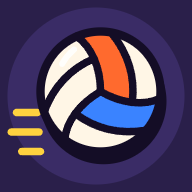
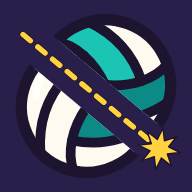
Logotipo nuevo «Make the Cut»: el remate en diagonal parte el rótulo; icono con el balón cortado; balón de las vallas en teal
- index.html: SVG #mtcLogo definido una vez (letras de Barlow Condensed Black Italic pasadas a trazados) y usado con <use> en el
  menú y en el telón; 4,3 em de ancho, escala con el font-size de .logo. Fuera el logotipo en texto (text-shadow, arco y brillo).
- pages/: icon.svg nuevo (balón partido en diagonal, colores del balón del partido) y PNG 180/192/512 regenerados.
- arena.js: el balón de las vallas (drawGameBall) en teal y teal oscuro, como el del partido.

diff --git a/index.html b/index.html
@@ -3,8 +3,8 @@
 /* UI-07: el logotipo no depende de la red. Dos recortes mínimos de Barlow Condensed (SIL Open Font License 1.1, The Barlow
    Project Authors, github.com/jpt/barlow) con SOLO las letras del telón: Black Italic «VOLEY3D» (1,1 KB) y Bold «PALU DEMR»
    (1,1 KB), registrados aquí antes del primer pintado con el nombre propio «VB Marca» (no se mezclan con el resto de textos si
-   Google Fonts falla). Los usan .logo (telón y menú) y el rótulo del telón: el primer frame ya sale con la fuente buena y el
-   logotipo del telón y el del menú son idénticos, con o sin Google Fonts. */
+   Google Fonts falla). Lo usa el rótulo del telón (el logotipo es SVG, #mtcLogo, desde nov-2026): el primer frame ya sale con la
+   fuente buena, con o sin Google Fonts. */
 (function () {
   try {
     if (!window.FontFace || !document.fonts || !window.atob) return;
@@ -83,8 +83,8 @@ kbd,.key{display:inline-flex;align-items:center;justify-content:center;min-width
 .key.tch.s{background:linear-gradient(180deg,#0f8a65,#0b6e50);text-shadow:0 1px 1px rgba(0,60,40,.5)}
 
 /* ---------- Telón de carga ---------- */
-/* UI-07: el telón usa EXACTAMENTE el logotipo del menú (.logo), con la fuente embebida «VB Marca» (script al principio): se ve
-   entero desde el PRIMER frame, sin esperar a la red y sin fuente de reserva. Con la escena lista (tope de 2,6 s desde la
+/* UI-07: el telón usa EXACTAMENTE el logotipo del menú (.logo: el SVG #mtcLogo, sin fuentes): se ve entero desde el PRIMER
+   frame, sin esperar a la red. Con la escena lista (tope de 2,6 s desde la
    navegación), el logotipo vuela (FLIP, solo transform) hasta su sitio en el menú mientras el fondo del telón se funde; al
    aterrizar, el del menú lo releva en el mismo frame. */
 #boot{position:absolute;inset:0;z-index:40;transition:opacity .6s var(--ease),visibility .6s}
@@ -617,7 +617,7 @@ kbd,.key{display:inline-flex;align-items:center;justify-content:center;min-width
 #menu.intro .logo,#menu.lgwait .logo{visibility:hidden}
 /* el logotipo que vuela no se repinta (el arco punteado y el brillo animan con pintado, no con el compositor): queda fijo y
    el del menú arranca sus animaciones desde ese mismo estado al relevarlo, sin salto */
-#boot .lg-arc path,#boot .lg-voley::after,#menu.intro .lg-arc path,#menu.intro .lg-voley::after,#menu.lgwait .lg-arc path,#menu.lgwait .lg-voley::after{animation:none}
+#boot .lg .trail,#menu.intro .lg .trail,#menu.lgwait .lg .trail{animation:none}
 #menu.intro .menu-col>*{animation:none}
 #menu.intro .kicker,#menu.intro .tagline,#menu.intro .mi,#menu.intro .menu-foot,#menu.intro .live{opacity:0}
 #menu.enter .menu-col>*,#menu.enter .brand{animation:none}
@@ -633,16 +633,10 @@ kbd,.key{display:inline-flex;align-items:center;justify-content:center;min-width
 .kicker::before{content:"";width:28px;height:2px;background:var(--t0)}
 .logo{position:relative;margin:0;width:max-content;font-family:"VB Marca",var(--display);font-weight:900;font-style:italic;line-height:.8;letter-spacing:-.01em;display:flex;align-items:flex-end;gap:12px;
   font-size:clamp(50px,6.4vw,92px)}
-.lg-voley{position:relative;color:#fff8ee;
-  text-shadow:1px 1px 0 #ff6a2e,2px 2px 0 #f2552b,3px 3px 0 #dd4320,4px 4px 0 #c43518,5px 5px 0 #a82b14,6px 6px 0 #8a2310,8px 10px 22px rgba(0,0,0,.55)}
-.lg-voley::after{content:"MAKE THE\A CUT";white-space:pre;position:absolute;left:0;top:0;color:transparent;pointer-events:none;
-  background:linear-gradient(100deg,transparent 35%,rgba(255,255,255,.75) 50%,transparent 65%);background-size:260% 100%;
-  text-shadow:none;-webkit-background-clip:text;background-clip:text;animation:sheen 5.5s ease-in-out 1s infinite}
-@keyframes sheen{0%,60%{background-position:120% 0}100%{background-position:-120% 0}}
-.lg-3d{position:relative;display:inline-block;font-size:.5em;line-height:1;padding:.08em .18em .06em .12em;margin-bottom:.06em;color:#140a04;
-  background:linear-gradient(135deg,#ffb238,#ff5a2c);transform:skewX(-10deg);border-radius:.08em;box-shadow:0 10px 28px rgba(255,90,40,.45),inset 0 -4px 0 rgba(0,0,0,.18)}
-.lg-arc{position:absolute;left:-4%;top:-12%;width:112%;height:56%;pointer-events:none;overflow:visible}
-.lg-arc path{fill:none;stroke:rgba(255,210,63,.75);stroke-width:2.2;stroke-dasharray:3 7;stroke-linecap:round;animation:dash 2.6s linear infinite}
+/* logotipo SVG (#mtcLogo, definido antes del telón): 4.3 em de ancho, así que escala con el font-size de .logo en todas las
+   medias queries; la trayectoria del balón lleva el guion animado que antes tenía el arco */
+.logo .lg{display:block;width:4.3em;height:auto;overflow:visible;filter:drop-shadow(8px 10px 16px rgba(0,0,0,.45))}
+.lg .trail{animation:dash 2.6s linear infinite}
 @keyframes dash{to{stroke-dashoffset:-60}}
 .tagline{margin:14px 0 0;color:var(--fg2);font-size:clamp(15px,1.5vw,18px);line-height:1.45;max-width:30em}
 .tagline b{color:#fff;font-weight:600}
@@ -1247,8 +1241,6 @@ kbd,.key{background:#fff7e8;color:var(--tk);border:1.5px solid var(--tk);border-
 #veil .vp.t1{--pc:var(--k1rgb,64,146,255)}
 
 /* ---- logotipo: letras de cómic con contorno de tinta y relieve naranja ---- */
-.lg-voley{text-shadow:var(--ring3),5px 5px 0 #ff6a2e,6px 6px 0 #ff6a2e,7px 7px 0 #e4521f,8px 8px 0 var(--tk),9px 10px 0 var(--tk)}
-.lg-arc path{stroke:#ffd23f;stroke-width:2.8}
 
 /* ---- menú ---- */
 #menu{background:linear-gradient(90deg,rgba(29,21,48,.9) 0%,rgba(29,21,48,.72) 30%,rgba(29,21,48,.2) 58%,rgba(29,21,48,0) 75%),linear-gradient(0deg,rgba(29,21,48,.62) 0%,rgba(29,21,48,0) 30%)}
@@ -1912,8 +1904,7 @@ kbd.ms{height:auto;padding:2px 6px 1px}
       <div class="brand">
         <p class="kicker">Palau del Mar<span class="sep sep-d"><span class="sr">, </span></span>2 contra 2</p>
         <h1 class="logo" aria-label="Make the Cut">
-          <svg class="lg-arc" viewBox="0 0 400 100" preserveAspectRatio="none" aria-hidden="true"><path d="M8 96 Q 190 -40 392 70"/></svg>
-          <span class="lg-voley">MAKE THE<br>CUT</span>
+          <svg class="lg" viewBox="0 0 780 440" aria-hidden="true" focusable="false"><use href="#mtcLogo"/></svg>
         </h1>
         <p class="tagline">Vóley en pista cubierta, con la cámara detrás de tu jugador: <b>tú y tu pareja contra la CPU</b>.</p>
       </div>
@@ -2084,10 +2075,13 @@ kbd.ms{height:auto;padding:2px 6px 1px}
   </div>
 
   <div id="rotate" hidden><div class="ph"></div><b>Gira el móvil</b><p>Make the Cut se juega en horizontal</p></div>
+  <!-- Logotipo «Make the Cut» (nov-2026): el remate en diagonal (un cut) parte el rótulo en dos. Definido una vez aquí y usado
+       con <use href="#mtcLogo"> en el menú y en el telón. Letras de Barlow Condensed Black Italic pasadas a trazados (OFL);
+       balón con los colores del balón del partido. Fuente: carpetas/logo-make-the-cut/gen.py + symbol.py (fuera del repo). -->
+  <svg width="0" height="0" style="position:absolute" aria-hidden="true" focusable="false"><defs><g id="mtcT" stroke-linejoin="round" paint-order="stroke"><path d="M49.056000000000004 -78.4H65.968Q66.752 -78.4 67.144 -77.952Q67.536 -77.504 67.424 -76.72L58.24 -1.68Q58.128 -0.896 57.624 -0.448Q57.120000000000005 0.0 56.336 0.0H39.2Q38.416000000000004 0.0 38.024 -0.448Q37.632 -0.896 37.744 -1.68L43.456 -47.488Q43.456 -47.936 43.232 -47.992000000000004Q43.008 -48.048 42.784 -47.712L35.168 -36.736000000000004L33.824 -34.72H33.712L28.0 -47.712Q27.888 -48.048 27.664 -47.992000000000004Q27.44 -47.936 27.328 -47.488L21.728 -1.68Q21.616 -0.896 21.112000000000002 -0.448Q20.608 0.0 19.936 0.0H2.688Q2.016 0.0 1.624 -0.448Q1.232 -0.896 1.344 -1.68L10.528 -76.72Q10.64 -77.504 11.088000000000001 -77.952Q11.536 -78.4 12.32 -78.4H29.344Q30.688000000000002 -78.4 31.136 -77.168L37.072 -62.608000000000004Q37.296 -62.048 37.632 -62.608000000000004L46.928000000000004 -77.168Q47.712 -78.4 49.056000000000004 -78.4ZM94.08000000000001 -1.568 93.968 -10.08Q93.968 -10.64 93.296 -10.64H83.552Q82.88000000000001 -10.64 82.88000000000001 -10.08L80.75200000000001 -1.568Q80.304 0.0 78.736 0.0H61.712Q59.92000000000001 0.0 60.592000000000006 -1.792L85.232 -76.944Q85.68 -78.4 87.248 -78.4H106.96000000000001Q108.528 -78.4 108.64000000000001 -76.944L114.912 -1.792Q114.912 0.0 113.12 0.0H95.648Q94.08000000000001 0.0 94.08000000000001 -1.568ZM87.696 -26.768H93.072Q93.52000000000001 -26.768 93.52000000000001 -27.328L93.184 -48.048Q93.072 -48.496 92.792 -48.44Q92.512 -48.384 92.512 -48.048L87.36000000000001 -27.328Q87.36000000000001 -26.768 87.696 -26.768ZM128.24 -78.4H145.376Q146.16000000000003 -78.4 146.55200000000002 -77.952Q146.94400000000002 -77.504 146.83200000000002 -76.72L144.032 -54.208Q144.032 -53.76 144.25600000000003 -53.76Q144.48000000000002 -53.76 144.704 -54.096000000000004L156.8 -77.056Q157.472 -78.4 158.92800000000003 -78.4H176.848Q178.192 -78.4 178.192 -77.392Q178.192 -76.944 177.85600000000002 -76.384L158.48000000000002 -43.232Q158.36800000000002 -43.12 158.312 -42.952Q158.25600000000003 -42.784 158.25600000000003 -42.56L169.12 -1.9040000000000001Q169.23200000000003 -1.68 169.23200000000003 -1.344Q169.23200000000003 0.0 167.66400000000002 0.0H149.632Q148.17600000000002 0.0 147.84000000000003 -1.344L142.12800000000001 -24.416Q142.12800000000001 -24.752 141.904 -24.808Q141.68 -24.864 141.568 -24.416L140.22400000000002 -21.952L140.00000000000003 -21.28L137.64800000000002 -1.68Q137.536 -0.896 137.032 -0.448Q136.52800000000002 0.0 135.85600000000002 0.0H118.60800000000002Q117.93600000000002 0.0 117.54400000000001 -0.448Q117.15200000000002 -0.896 117.26400000000001 -1.68L126.44800000000002 -76.72Q126.56000000000002 -77.504 127.00800000000001 -77.952Q127.45600000000002 -78.4 128.24 -78.4ZM219.63200000000003 -60.368H198.8Q198.24 -60.368 198.24 -59.808L196.89600000000002 -48.832Q196.67200000000003 -48.272 197.34400000000002 -48.272H208.20800000000003Q208.99200000000002 -48.272 209.38400000000001 -47.824Q209.776 -47.376 209.66400000000002 -46.592L207.76000000000002 -31.92Q207.64800000000002 -31.136 207.20000000000002 -30.688000000000002Q206.752 -30.240000000000002 205.96800000000002 -30.240000000000002H195.104Q194.544 -30.240000000000002 194.544 -29.68L193.08800000000002 -18.592Q193.08800000000002 -18.032 193.64800000000002 -18.032H214.48000000000002Q215.264 -18.032 215.656 -17.584Q216.04800000000003 -17.136 215.93600000000004 -16.352L214.14400000000003 -1.68Q213.80800000000002 0.0 212.24 0.0H172.032Q171.36 0.0 170.96800000000002 -0.448Q170.57600000000002 -0.896 170.68800000000002 -1.68L179.872 -76.72Q179.98400000000004 -77.504 180.43200000000002 -77.952Q180.88000000000002 -78.4 181.66400000000002 -78.4H221.872Q222.656 -78.4 223.048 -77.952Q223.44000000000003 -77.504 223.32800000000003 -76.72L221.53600000000003 -62.048Q221.42400000000004 -61.264 220.92000000000002 -60.816Q220.41600000000003 -60.368 219.63200000000003 -60.368ZM295.56800000000004 -76.72 293.66400000000004 -62.048Q293.552 -61.264 293.10400000000004 -60.816Q292.65600000000006 -60.368 291.87200000000007 -60.368H278.992Q278.54400000000004 -60.368 278.32000000000005 -59.808L271.15200000000004 -1.68Q271.04 -0.896 270.59200000000004 -0.448Q270.14400000000006 0.0 269.36 0.0H252.22400000000005Q251.44000000000005 0.0 251.04800000000006 -0.448Q250.65600000000003 -0.896 250.76800000000003 -1.68L257.93600000000004 -59.808Q257.93600000000004 -60.368 257.48800000000006 -60.368H244.83200000000005Q244.04800000000003 -60.368 243.65600000000003 -60.816Q243.26400000000004 -61.264 243.37600000000003 -62.048L245.16800000000003 -76.72Q245.50400000000005 -78.4 247.07200000000003 -78.4H294.112Q294.8960000000001 -78.4 295.28800000000007 -77.952Q295.68000000000006 -77.504 295.56800000000004 -76.72ZM327.15200000000004 -78.4H344.288Q345.072 -78.4 345.464 -77.952Q345.856 -77.504 345.744 -76.72L336.56 -1.68Q336.22400000000005 0.0 334.656 0.0H317.52000000000004Q316.73600000000005 0.0 316.34400000000005 -0.448Q315.952 -0.896 316.064 -1.68L319.536 -29.68Q319.536 -30.240000000000002 319.088 -30.240000000000002H313.824Q313.264 -30.240000000000002 313.264 -29.68L309.79200000000003 -1.68Q309.68 -0.896 309.17600000000004 -0.448Q308.672 0.0 308.0 0.0H290.752Q290.08000000000004 0.0 289.68800000000005 -0.448Q289.29600000000005 -0.896 289.408 -1.68L298.59200000000004 -76.72Q298.704 -77.504 299.15200000000004 -77.952Q299.6 -78.4 300.384 -78.4H317.52000000000004Q318.30400000000003 -78.4 318.696 -77.952Q319.088 -77.504 318.976 -76.72L315.61600000000004 -48.832Q315.392 -48.272 316.064 -48.272H321.216Q321.66400000000004 -48.272 321.88800000000003 -48.832L325.24800000000005 -76.72Q325.584 -78.4 327.15200000000004 -78.4ZM390.88000000000005 -60.368H370.04800000000006Q369.48800000000006 -60.368 369.48800000000006 -59.808L368.14400000000006 -48.832Q367.92 -48.272 368.59200000000004 -48.272H379.456Q380.24000000000007 -48.272 380.63200000000006 -47.824Q381.02400000000006 -47.376 380.91200000000003 -46.592L379.00800000000004 -31.92Q378.8960000000001 -31.136 378.4480000000001 -30.688000000000002Q378.00000000000006 -30.240000000000002 377.21600000000007 -30.240000000000002H366.35200000000003Q365.79200000000003 -30.240000000000002 365.79200000000003 -29.68L364.336 -18.592Q364.336 -18.032 364.8960000000001 -18.032H385.72800000000007Q386.51200000000006 -18.032 386.90400000000005 -17.584Q387.29600000000005 -17.136 387.184 -16.352L385.39200000000005 -1.68Q385.05600000000004 0.0 383.48800000000006 0.0H343.28000000000003Q342.60800000000006 0.0 342.21600000000007 -0.448Q341.82400000000007 -0.896 341.93600000000004 -1.68L351.12000000000006 -76.72Q351.232 -77.504 351.68000000000006 -77.952Q352.12800000000004 -78.4 352.91200000000003 -78.4H393.12000000000006Q393.90400000000005 -78.4 394.29600000000005 -77.952Q394.68800000000005 -77.504 394.576 -76.72L392.78400000000005 -62.048Q392.672 -61.264 392.168 -60.816Q391.66400000000004 -60.368 390.88000000000005 -60.368Z" transform="translate(182.1 150)" stroke-width="5"/><path d="M5.428 -40.355999999999995Q5.428 -42.716 5.8999999999999995 -48.379999999999995L14.395999999999999 -117.29199999999999Q17.227999999999998 -140.184 32.568 -153.636Q47.907999999999994 -167.088 70.564 -167.088Q91.09599999999999 -167.088 103.13199999999999 -155.878Q115.16799999999999 -144.668 115.16799999999999 -125.08Q115.16799999999999 -122.95599999999999 114.696 -117.29199999999999L114.46 -116.112Q114.22399999999999 -114.46 113.16199999999999 -113.398Q112.1 -112.336 110.684 -112.336L74.33999999999999 -111.15599999999999Q70.8 -111.15599999999999 71.27199999999999 -114.46L71.97999999999999 -120.36Q72.452 -124.372 70.8 -126.732Q69.148 -129.09199999999998 66.08 -129.09199999999998Q62.775999999999996 -129.09199999999998 60.53399999999999 -126.732Q58.291999999999994 -124.372 57.82 -120.36L48.616 -44.604Q48.144 -40.827999999999996 49.678 -38.467999999999996Q51.211999999999996 -36.108 54.516 -36.108Q57.82 -36.108 60.062 -38.349999999999994Q62.303999999999995 -40.592 62.775999999999996 -44.604L63.483999999999995 -50.976Q63.72 -52.628 64.782 -53.45399999999999Q65.844 -54.279999999999994 67.25999999999999 -54.279999999999994L103.368 -53.099999999999994Q105.02 -53.099999999999994 105.846 -52.038Q106.672 -50.976 106.43599999999999 -49.324L106.19999999999999 -48.379999999999995Q103.368 -25.488 87.91 -11.8Q72.452 1.888 49.796 1.888Q29.264 1.888 17.346 -9.440000000000001Q5.428 -20.768 5.428 -40.355999999999995ZM108.324 -40.827999999999996Q108.324 -43.424 108.79599999999999 -49.087999999999994L122.72 -161.66Q122.956 -163.31199999999998 124.018 -164.25599999999997Q125.08 -165.2 126.496 -165.2H162.84Q164.256 -165.2 165.082 -164.25599999999997Q165.90800000000002 -163.31199999999998 165.672 -161.66L151.276 -44.839999999999996Q150.804 -40.827999999999996 152.33800000000002 -38.467999999999996Q153.872 -36.108 156.94 -36.108Q160.00799999999998 -36.108 162.01399999999998 -38.467999999999996Q164.01999999999998 -40.827999999999996 164.492 -44.839999999999996L178.88799999999998 -161.66Q179.124 -163.31199999999998 180.06799999999998 -164.25599999999997Q181.012 -165.2 182.664 -165.2H218.772Q220.42399999999998 -165.2 221.25 -164.25599999999997Q222.076 -163.31199999999998 221.83999999999997 -161.66L207.916 -49.087999999999994Q206.028 -33.983999999999995 198.476 -22.419999999999998Q190.92399999999998 -10.856 178.88799999999998 -4.484Q166.85199999999998 1.888 152.22 1.888Q131.924 1.888 120.124 -9.675999999999998Q108.324 -21.24 108.324 -40.827999999999996ZM331.108 -161.66 327.096 -130.744Q326.86 -129.09199999999998 325.916 -128.148Q324.972 -127.204 323.32 -127.204H296.18Q295.236 -127.204 294.764 -126.02399999999999L279.65999999999997 -3.54Q279.424 -1.888 278.48 -0.944Q277.536 0.0 275.884 0.0H239.776Q238.124 0.0 237.298 -0.944Q236.47199999999998 -1.888 236.708 -3.54L251.812 -126.02399999999999Q251.812 -127.204 250.868 -127.204H224.2Q222.548 -127.204 221.72199999999998 -128.148Q220.896 -129.09199999999998 221.132 -130.744L224.908 -161.66Q225.61599999999999 -165.2 228.92 -165.2H328.03999999999996Q329.692 -165.2 330.51800000000003 -164.25599999999997Q331.344 -163.31199999999998 331.108 -161.66Z" transform="translate(182.1 401.5) scale(1.2391)" stroke-width="4.04"/></g><clipPath id="mtc-cA"><polygon points="-1891.1,-2238.6 2645.0,2683.5 438.9,4716.6 -4097.2,-205.6"/></clipPath><clipPath id="mtc-cB"><polygon points="-1875.0,-2253.5 2661.1,2668.6 4867.2,635.6 331.1,-4286.6"/></clipPath></defs><g id="mtcLogo"><g clip-path="url(#mtc-cA)" transform="translate(-13.2 12.2)"><use href="#mtcT" transform="translate(12.0 12.0)" fill="#1d1530" stroke="#1d1530"/><use href="#mtcT" transform="translate(10.0 10.0)" fill="#1d1530" stroke="#1d1530"/><use href="#mtcT" transform="translate(8.0 8.0)" fill="#1d1530" stroke="#1d1530"/><use href="#mtcT" transform="translate(6.0 6.0)" fill="#1d1530" stroke="#1d1530"/><use href="#mtcT" transform="translate(4.0 4.0)" fill="#1d1530" stroke="#1d1530"/><use href="#mtcT" transform="translate(2.0 2.0)" fill="#1d1530" stroke="#1d1530"/><use href="#mtcT" transform="translate(12.0 12.0)" fill="#8a2310" stroke="none"/><use href="#mtcT" transform="translate(10.0 10.0)" fill="#a82b14" stroke="none"/><use href="#mtcT" transform="translate(8.0 8.0)" fill="#c43518" stroke="none"/><use href="#mtcT" transform="translate(6.0 6.0)" fill="#dd4320" stroke="none"/><use href="#mtcT" transform="translate(4.0 4.0)" fill="#f2552b" stroke="none"/><use href="#mtcT" transform="translate(2.0 2.0)" fill="#ff6a2e" stroke="none"/><use href="#mtcT" fill="#fff8ee" stroke="#1d1530"/></g><g clip-path="url(#mtc-cB)" transform="translate(13.2 -12.2)"><use href="#mtcT" transform="translate(12.0 12.0)" fill="#1d1530" stroke="#1d1530"/><use href="#mtcT" transform="translate(10.0 10.0)" fill="#1d1530" stroke="#1d1530"/><use href="#mtcT" transform="translate(8.0 8.0)" fill="#1d1530" stroke="#1d1530"/><use href="#mtcT" transform="translate(6.0 6.0)" fill="#1d1530" stroke="#1d1530"/><use href="#mtcT" transform="translate(4.0 4.0)" fill="#1d1530" stroke="#1d1530"/><use href="#mtcT" transform="translate(2.0 2.0)" fill="#1d1530" stroke="#1d1530"/><use href="#mtcT" transform="translate(12.0 12.0)" fill="#8a2310" stroke="none"/><use href="#mtcT" transform="translate(10.0 10.0)" fill="#a82b14" stroke="none"/><use href="#mtcT" transform="translate(8.0 8.0)" fill="#c43518" stroke="none"/><use href="#mtcT" transform="translate(6.0 6.0)" fill="#dd4320" stroke="none"/><use href="#mtcT" transform="translate(4.0 4.0)" fill="#f2552b" stroke="none"/><use href="#mtcT" transform="translate(2.0 2.0)" fill="#ff6a2e" stroke="none"/><use href="#mtcT" fill="#fff8ee" stroke="#1d1530"/></g><line x1="210" y1="25" x2="500" y2="340" stroke="#1d1530" stroke-width="9" stroke-linecap="round" stroke-dasharray="10 12"/><line x1="210" y1="25" x2="500" y2="340" class="trail" stroke="#ffd23f" stroke-width="5" stroke-linecap="round" stroke-dasharray="10 12"/><g stroke="#1d1530" stroke-width="4" stroke-linecap="round" opacity=".9"><path d="M180 -10 l22 24M155 18 l18 20"/></g><polygon points="610.6,406.9 573.0,409.8 583.8,446.0 555.1,421.4 537.1,454.6 534.2,417.0 498.0,427.8 522.6,399.1 489.4,381.1 527.0,378.2 516.2,342.0 544.9,366.6 562.9,333.4 565.8,371.0 602.0,360.2 577.4,388.9" fill="#ffd23f" stroke="#1d1530" stroke-width="4" stroke-linejoin="round"/><g transform="translate(550 394) rotate(-20) scale(3.8000) translate(-12 -12)" stroke-linejoin="round" stroke-linecap="round"> <circle cx="12" cy="12" r="10" fill="#fffaf0"/> <path d="M12 12C12 8 10.5 4.5 8 2.8A10 10 0 0 1 13.8 2.2C16.5 5.5 17.8 9.5 17.3 13.8C15.98 13.86 13.73 13 12 12Z" fill="#1cc4b4"/><path d="M12 12C12 8 10.5 4.5 8 2.8A10 10 0 0 1 13.8 2.2C16.5 5.5 17.8 9.5 17.3 13.8C15.98 13.86 13.73 13 12 12Z" fill="#0b8a86" transform="rotate(120 12 12)"/> <g fill="none" stroke="#1d1530" stroke-width="1.25"><path d="M12 12C12 8 10.5 4.5 8 2.8"/><path d="M13.8 2.2C16.5 5.5 17.8 9.5 17.3 13.8"/><g transform="rotate(120 12 12)"><path d="M12 12C12 8 10.5 4.5 8 2.8"/><path d="M13.8 2.2C16.5 5.5 17.8 9.5 17.3 13.8"/></g><g transform="rotate(240 12 12)"><path d="M12 12C12 8 10.5 4.5 8 2.8"/><path d="M13.8 2.2C16.5 5.5 17.8 9.5 17.3 13.8"/></g> <circle cx="12" cy="12" r="10" stroke-width="1.44"/></g> <path d="M5.6 7.4A7.6 7.6 0 0 1 7.6 5" fill="none" stroke="#fff" stroke-width="1" opacity=".85"/> </g></g></svg>
   <div id="boot"><div class="bt-bg"></div><div class="bt-c">
     <div class="logo bt-logo" aria-hidden="true">
-          <svg class="lg-arc" viewBox="0 0 400 100" preserveAspectRatio="none" aria-hidden="true"><path d="M8 96 Q 190 -40 392 70"/></svg>
-          <span class="lg-voley">MAKE THE<br>CUT</span>
+          <svg class="lg" viewBox="0 0 780 440" aria-hidden="true" focusable="false"><use href="#mtcLogo"/></svg>
     </div>
     <div class="bt-bar"><i></i></div><p>PALAU DEL MAR</p></div></div>
   <div id="wipe" aria-hidden="true"><div class="wp-band"><i class="wp-tr"></i><i class="wp-ld"></i><div class="wp-mark"><svg viewBox="0 0 24 24" fill="none" stroke="currentColor" stroke-width="2.2" stroke-linecap="round" stroke-linejoin="round"><circle cx="12" cy="12" r="10"/><g><path d="M12 12C12 8 10.5 4.5 8 2.8"/><path d="M13.8 2.2C16.5 5.5 17.8 9.5 17.3 13.8"/></g><g transform="rotate(120 12 12)"><path d="M12 12C12 8 10.5 4.5 8 2.8"/><path d="M13.8 2.2C16.5 5.5 17.8 9.5 17.3 13.8"/></g><g transform="rotate(240 12 12)"><path d="M12 12C12 8 10.5 4.5 8 2.8"/><path d="M13.8 2.2C16.5 5.5 17.8 9.5 17.3 13.8"/></g></svg><span>Palau del Mar</span></div></div></div>

diff --git a/js/arena.js b/js/arena.js
@@ -2131,7 +2131,7 @@
     g.restore();
   }
   /* Balón del juego (el mismo de pages/icon.svg y del botón GOLPEAR, ICON_HIT de input.js): tres costuras en remolino desde el
-   * centro y una franja curva por panel (naranja y azul; el tercero, crema), con contorno de tinta. Geometría en la caja 24×24
+   * centro y una franja curva por panel (teal y teal oscuro, como el balón del partido; el tercero, crema), con contorno de tinta. Geometría en la caja 24×24
    * del SVG (radio 10), escalada a radio r. Sin Path2D(string) (navegadores viejos): el balón de antes, de arcos. */
   var BALL_SEAM = 'M12 12C12 8 10.5 4.5 8 2.8M13.8 2.2C16.5 5.5 17.8 9.5 17.3 13.8';
   var BALL_PANEL = 'M12 12C12 8 10.5 4.5 8 2.8A10 10 0 0 1 13.8 2.2C16.5 5.5 17.8 9.5 17.3 13.8C15.98 13.86 13.73 13 12 12Z';
@@ -2142,8 +2142,8 @@
     if (!seam || !panel) { g.beginPath(); g.arc(x, y, r * 0.8, 0, 6.283); g.stroke(); return; }
     g.save();
     g.translate(x, y); g.scale(s, s); g.translate(-12, -12);
-    g.beginPath(); g.arc(12, 12, 10, 0, 6.283); g.fillStyle = '#fff6e6'; g.fill();
-    var fills = ['#ff6a2e', '#3a83ff'];
+    g.beginPath(); g.arc(12, 12, 10, 0, 6.283); g.fillStyle = '#fffaf0'; g.fill();
+    var fills = ['#1cc4b4', '#0b8a86'];
     for (var i = 0; i < 2; i++) { g.save(); g.translate(12, 12); g.rotate(i * 2.0944); g.translate(-12, -12); g.fillStyle = fills[i]; g.fill(panel); g.restore(); }
     g.strokeStyle = ink; g.lineWidth = 1.3; g.lineCap = 'round'; g.lineJoin = 'round';
     for (var j = 0; j < 3; j++) { g.save(); g.translate(12, 12); g.rotate(j * 2.0944); g.translate(-12, -12); g.stroke(seam); g.restore(); }

diff --git a/TRASPASO.md b/TRASPASO.md
@@ -430,6 +430,13 @@ Entre sprints no se empieza nada: solo se apunta aquí. Lo de abajo está apunta
   - `tools/drive.js` falló 1 vez de 4 («el humano llega a tocar el balón», con el PC al 60 % de CPU); las otras 3, TODO OK. Vigilar.
 
 ### Hecho
+- **Logotipo «Make the Cut» (11-nov-2026; Ferran: «Vale, bien. Súbelos»)**: el rótulo partido en dos por la trayectoria del
+  remate (un *cut* es el remate en diagonal cerrada). Es el SVG `#mtcLogo`, definido una vez en index.html (antes del telón)
+  y usado en el menú y en el telón con `<use>`; mide 4,3 em de ancho, así que escala con el font-size de `.logo` y el FLIP
+  del telón sigue igual. Letras de Barlow Condensed Black Italic pasadas a trazados (ya no dependen de la fuente «VB Marca»,
+  que solo usa el rótulo PALAU DEL MAR). Icono nuevo en pages/ (balón partido en diagonal) con los PNG 180/192/512
+  regenerados, y el balón de las vallas (arena.js `drawGameBall`) en teal como el del partido. Fuentes del logo (gen.py,
+  symbol.py y las propuestas A-D en SVG) fuera del repo, en `carpetas/logo-make-the-cut` del PC de casa.
 - **Muñeco integrado** (10/11-nov-2026, rama `wip-doll-carrera-playa`; pedido de Ferran: «Los nuevos Doll están bien. Mételos»): el muñeco
   chibi de `js/doll.js` es el único modelo de personaje (pabellón, playa, 6v6, Carrera). players.js monta su esqueleto con
   `VB.Doll.dims()`, estirón cartoon del brazo al golpear, caras del muñeco, squash con rebote de la cabeza, aspecto por jugador (tus n.º 1 y 2
